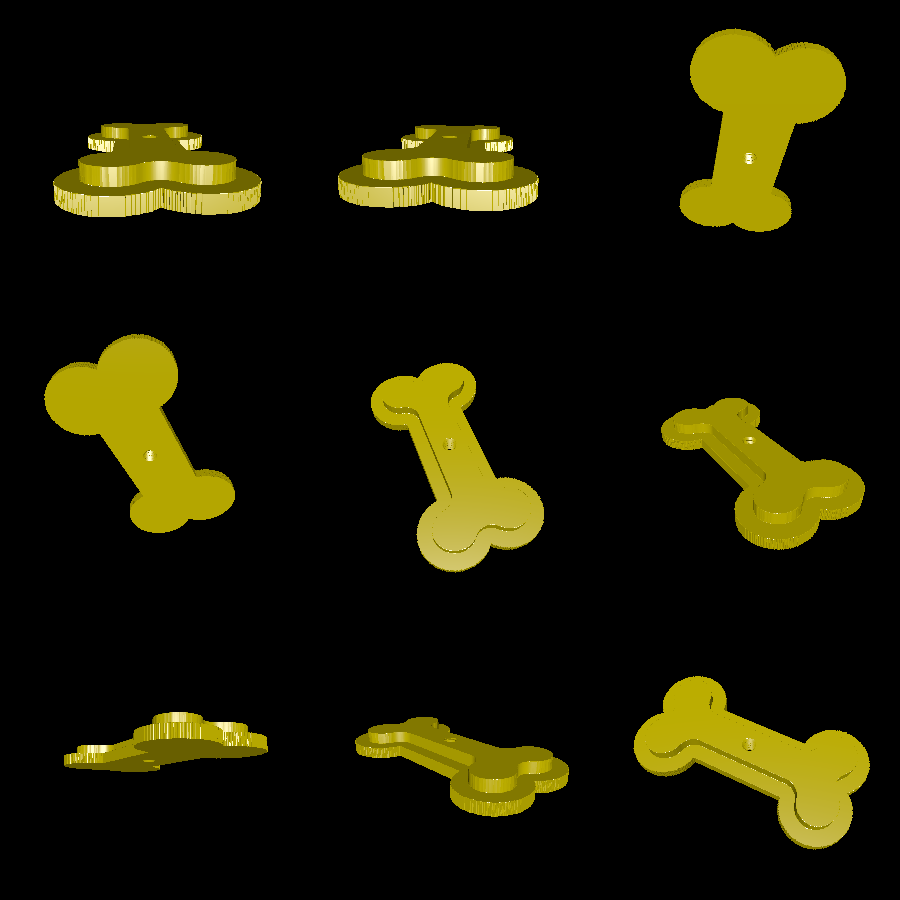
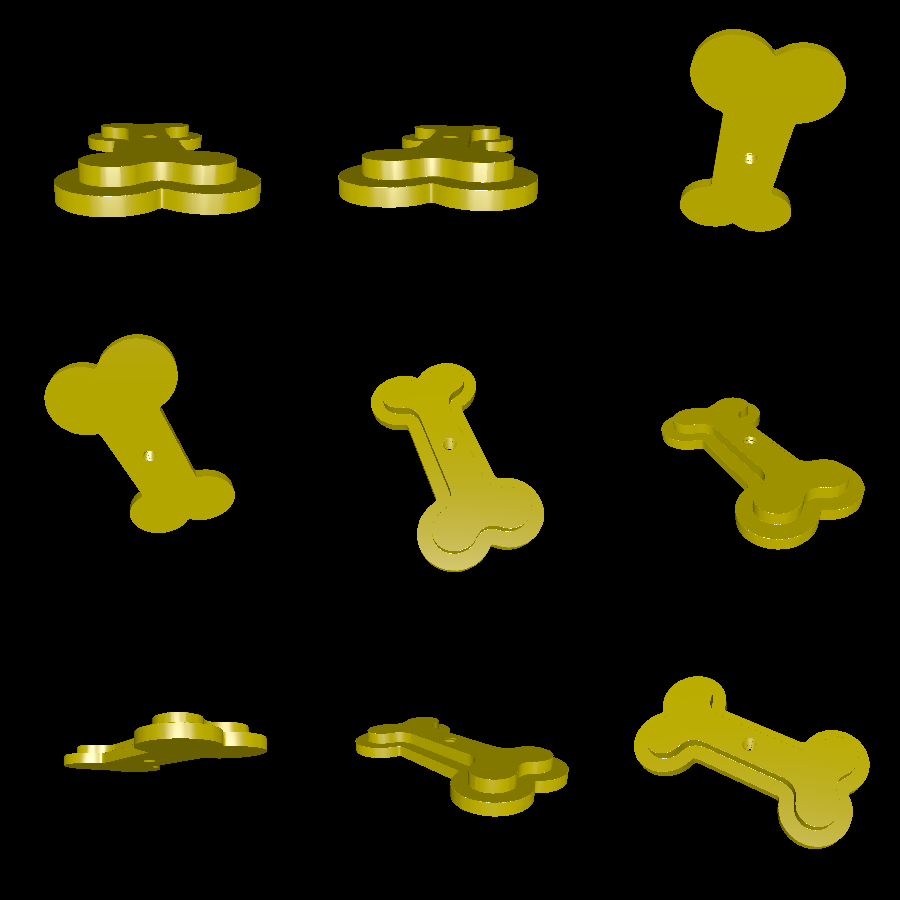
treat_box: cleanup code, add README

diff --git a/examples/usable/treat_box/main.go b/examples/usable/treat_box/main.go
@@ -26,25 +26,46 @@ const (
 )
 
 func main() {
+	bone := ReadBone()
+	CreateBox(bone)
+	CreateLid(bone)
+	CreateHandle()
+}
+
+func ReadBone() model2d.Collider {
+	bmp := model2d.MustReadBitmap("bone.png", nil)
+	scale := BoxWidth / float64(bmp.Width)
+	boneMesh := bmp.Mesh().Smooth(20).MapCoords(func(c model2d.Coord) model2d.Coord {
+		return c.Scale(scale)
+	})
+	return model2d.MeshToCollider(boneMesh)
+}
+
+func CreateBox(bone model2d.Collider) {
 	ax := &toolbox3d.AxisSqueeze{
 		Axis:  toolbox3d.AxisZ,
 		Min:   Thickness,
 		Max:   BoxHeight * 0.9,
 		Ratio: 0.1,
 	}
-	box := NewBoxSolid()
+	box := NewBoxSolid(bone)
+
 	log.Println("Creating box mesh...")
 	mesh := model3d.MarchingCubesSearch(ax.ApplySolid(box), 0.01, 8)
 	mesh = mesh.MapCoords(ax.Inverse().Apply)
+
 	log.Println("Saving box mesh...")
 	mesh.SaveGroupedSTL("box.stl")
+
 	log.Println("Rendering box...")
 	render3d.SaveRandomGrid("rendering_box.png", mesh, 3, 3, 300, nil)
+}
 
-	center := box.Min().Mid(box.Max())
-	center.Z = 0
+func CreateLid(bone model2d.Collider) {
+	mid := bone.Min().Mid(bone.Max())
+	center := model3d.Coord3D{X: mid.X, Y: mid.Y}
 	lid := &model3d.SubtractedSolid{
-		Positive: &LidSolid{BoxSolid: box},
+		Positive: NewLidSolid(bone),
 		Negative: &toolbox3d.ScrewSolid{
 			P1:         center,
 			P2:         center.Add(model3d.Coord3D{Z: Thickness * 2}),
@@ -52,13 +73,18 @@ func main() {
 			GrooveSize: ScrewGroove,
 		},
 	}
+
 	log.Println("Creating lid mesh...")
-	mesh = model3d.MarchingCubesSearch(lid, 0.0075, 8)
+	mesh := model3d.MarchingCubesSearch(lid, 0.0075, 8)
+
 	log.Println("Saving lid mesh...")
 	mesh.SaveGroupedSTL("lid.stl")
+
 	log.Println("Rendering lid...")
 	render3d.SaveRandomGrid("rendering_lid.png", mesh, 3, 3, 300, nil)
+}
 
+func CreateHandle() {
 	handle := model3d.JoinedSolid{
 		&model3d.Cylinder{
 			P1:     model3d.Coord3D{},
@@ -72,21 +98,27 @@ func main() {
 			GrooveSize: ScrewGroove,
 		},
 	}
-	mesh = model3d.MarchingCubesSearch(handle, 0.005, 8)
-	mesh.SaveGroupedSTL("handle.stl")
-	render3d.SaveRandomGrid("rendering_handle.png", mesh, 3, 3, 300, nil)
 
+	log.Println("Creating handle mesh...")
+	mesh := model3d.MarchingCubesSearch(handle, 0.005, 8)
+
+	log.Println("Saving handle mesh...")
+	mesh.SaveGroupedSTL("handle.stl")
+
+	log.Println("Rendering handle...")
+	render3d.SaveRandomGrid("rendering_handle.png", mesh, 3, 3, 300, nil)
 }
 
 type BoxSolid struct {
-	Bitmap   *model2d.Bitmap
-	Collider model2d.Collider
+	Outside model2d.Solid
+	Inside  model2d.Solid
 }
 
-func NewBoxSolid() *BoxSolid {
-	bmp := model2d.MustReadBitmap("bone.png", nil)
-	collider := model2d.MeshToCollider(bmp.Mesh().Smooth(20))
-	return &BoxSolid{Bitmap: bmp, Collider: collider}
+func NewBoxSolid(bone model2d.Collider) *BoxSolid {
+	return &BoxSolid{
+		Outside: model2d.NewColliderSolid(bone),
+		Inside:  model2d.NewColliderSolidInset(bone, Thickness),
+	}
 }
 
 func (b *BoxSolid) Min() model3d.Coord3D {
@@ -94,59 +126,41 @@ func (b *BoxSolid) Min() model3d.Coord3D {
 }
 
 func (b *BoxSolid) Max() model3d.Coord3D {
-	depth := BoxWidth * float64(b.Bitmap.Height) / float64(b.Bitmap.Width)
-	return model3d.Coord3D{X: BoxWidth, Y: depth, Z: BoxHeight}
+	return model3d.Coord3D{X: b.Outside.Max().X, Y: b.Outside.Max().Y, Z: BoxHeight}
 }
 
 func (b *BoxSolid) Contains(c model3d.Coord3D) bool {
-	if !b.filledContains(c) {
-		return false
-	}
-	if c.Z <= Thickness {
-		return true
-	}
-	return !b.containsInset(c, Thickness)
-}
-
-func (b *BoxSolid) filledContains(c model3d.Coord3D) bool {
 	if !model3d.InBounds(b, c) {
 		return false
 	}
-	x := float64(b.Bitmap.Width) * c.X / b.Max().X
-	y := float64(b.Bitmap.Height) * c.Y / b.Max().Y
-	return model2d.ColliderContains(b.Collider, model2d.Coord{X: x, Y: y}, 0)
-}
-
-func (b *BoxSolid) containsInset(c model3d.Coord3D, thickness float64) bool {
-	if !b.filledContains(c) {
-		return false
-	}
-	scale := float64(b.Bitmap.Width) / b.Max().X
-	x := float64(b.Bitmap.Width) * c.X / b.Max().X
-	y := float64(b.Bitmap.Height) * c.Y / b.Max().Y
-	return !b.Collider.CircleCollision(model2d.Coord{X: x, Y: y}, thickness*scale)
+	c2 := c.Coord2D()
+	return b.Outside.Contains(c2) && (c.Z <= Thickness || !b.Inside.Contains(c2))
 }
 
 type LidSolid struct {
-	BoxSolid *BoxSolid
+	Outside model2d.Solid
+	Inside  model2d.Solid
+}
+
+func NewLidSolid(bone model2d.Collider) *LidSolid {
+	return &LidSolid{
+		Outside: model2d.NewColliderSolid(bone),
+		Inside:  model2d.NewColliderSolidInset(bone, Thickness+LidSlack),
+	}
 }
 
 func (l *LidSolid) Min() model3d.Coord3D {
-	return l.BoxSolid.Min()
+	return model3d.Coord3D{}
 }
 
 func (l *LidSolid) Max() model3d.Coord3D {
-	res := l.BoxSolid.Max()
-	res.Z = Thickness * 2
-	return res
+	return model3d.Coord3D{X: l.Outside.Max().X, Y: l.Outside.Max().Y, Z: Thickness * 2}
 }
 
 func (l *LidSolid) Contains(c model3d.Coord3D) bool {
-	if c.Z > Thickness*2 {
+	if !model3d.InBounds(l, c) {
 		return false
 	}
-	if c.Z <= Thickness {
-		return l.BoxSolid.Contains(c)
-	}
-	return l.BoxSolid.containsInset(c, Thickness+LidSlack)
+	c2 := c.Coord2D()
+	return l.Inside.Contains(c2) || (c.Z < Thickness && l.Outside.Contains(c2))
 }

diff --git a/examples/usable/treat_box/README.md b/examples/usable/treat_box/README.md
@@ -1,0 +1,19 @@
+# treat-box
+
+This is a 3D-printable box which is shaped like a dog bone. It is intended for storing small dog treats. The shape is derived from bone.png, and can be changed by changing bone.png to any other outline.
+
+The box consists of three parts: the box itself, a lid, and a handle that screws into the lid.
+
+# Renderings
+
+Here is the box itsellf:
+
+![Rendering of the box](rendering_box.png)
+
+Here is the lid, note the screw hole:
+
+![Rendering of the lid](rendering_lid.png)
+
+Here is the handle which screws into the lid:
+
+![Rendering of the handle](rendering_handle.png)
